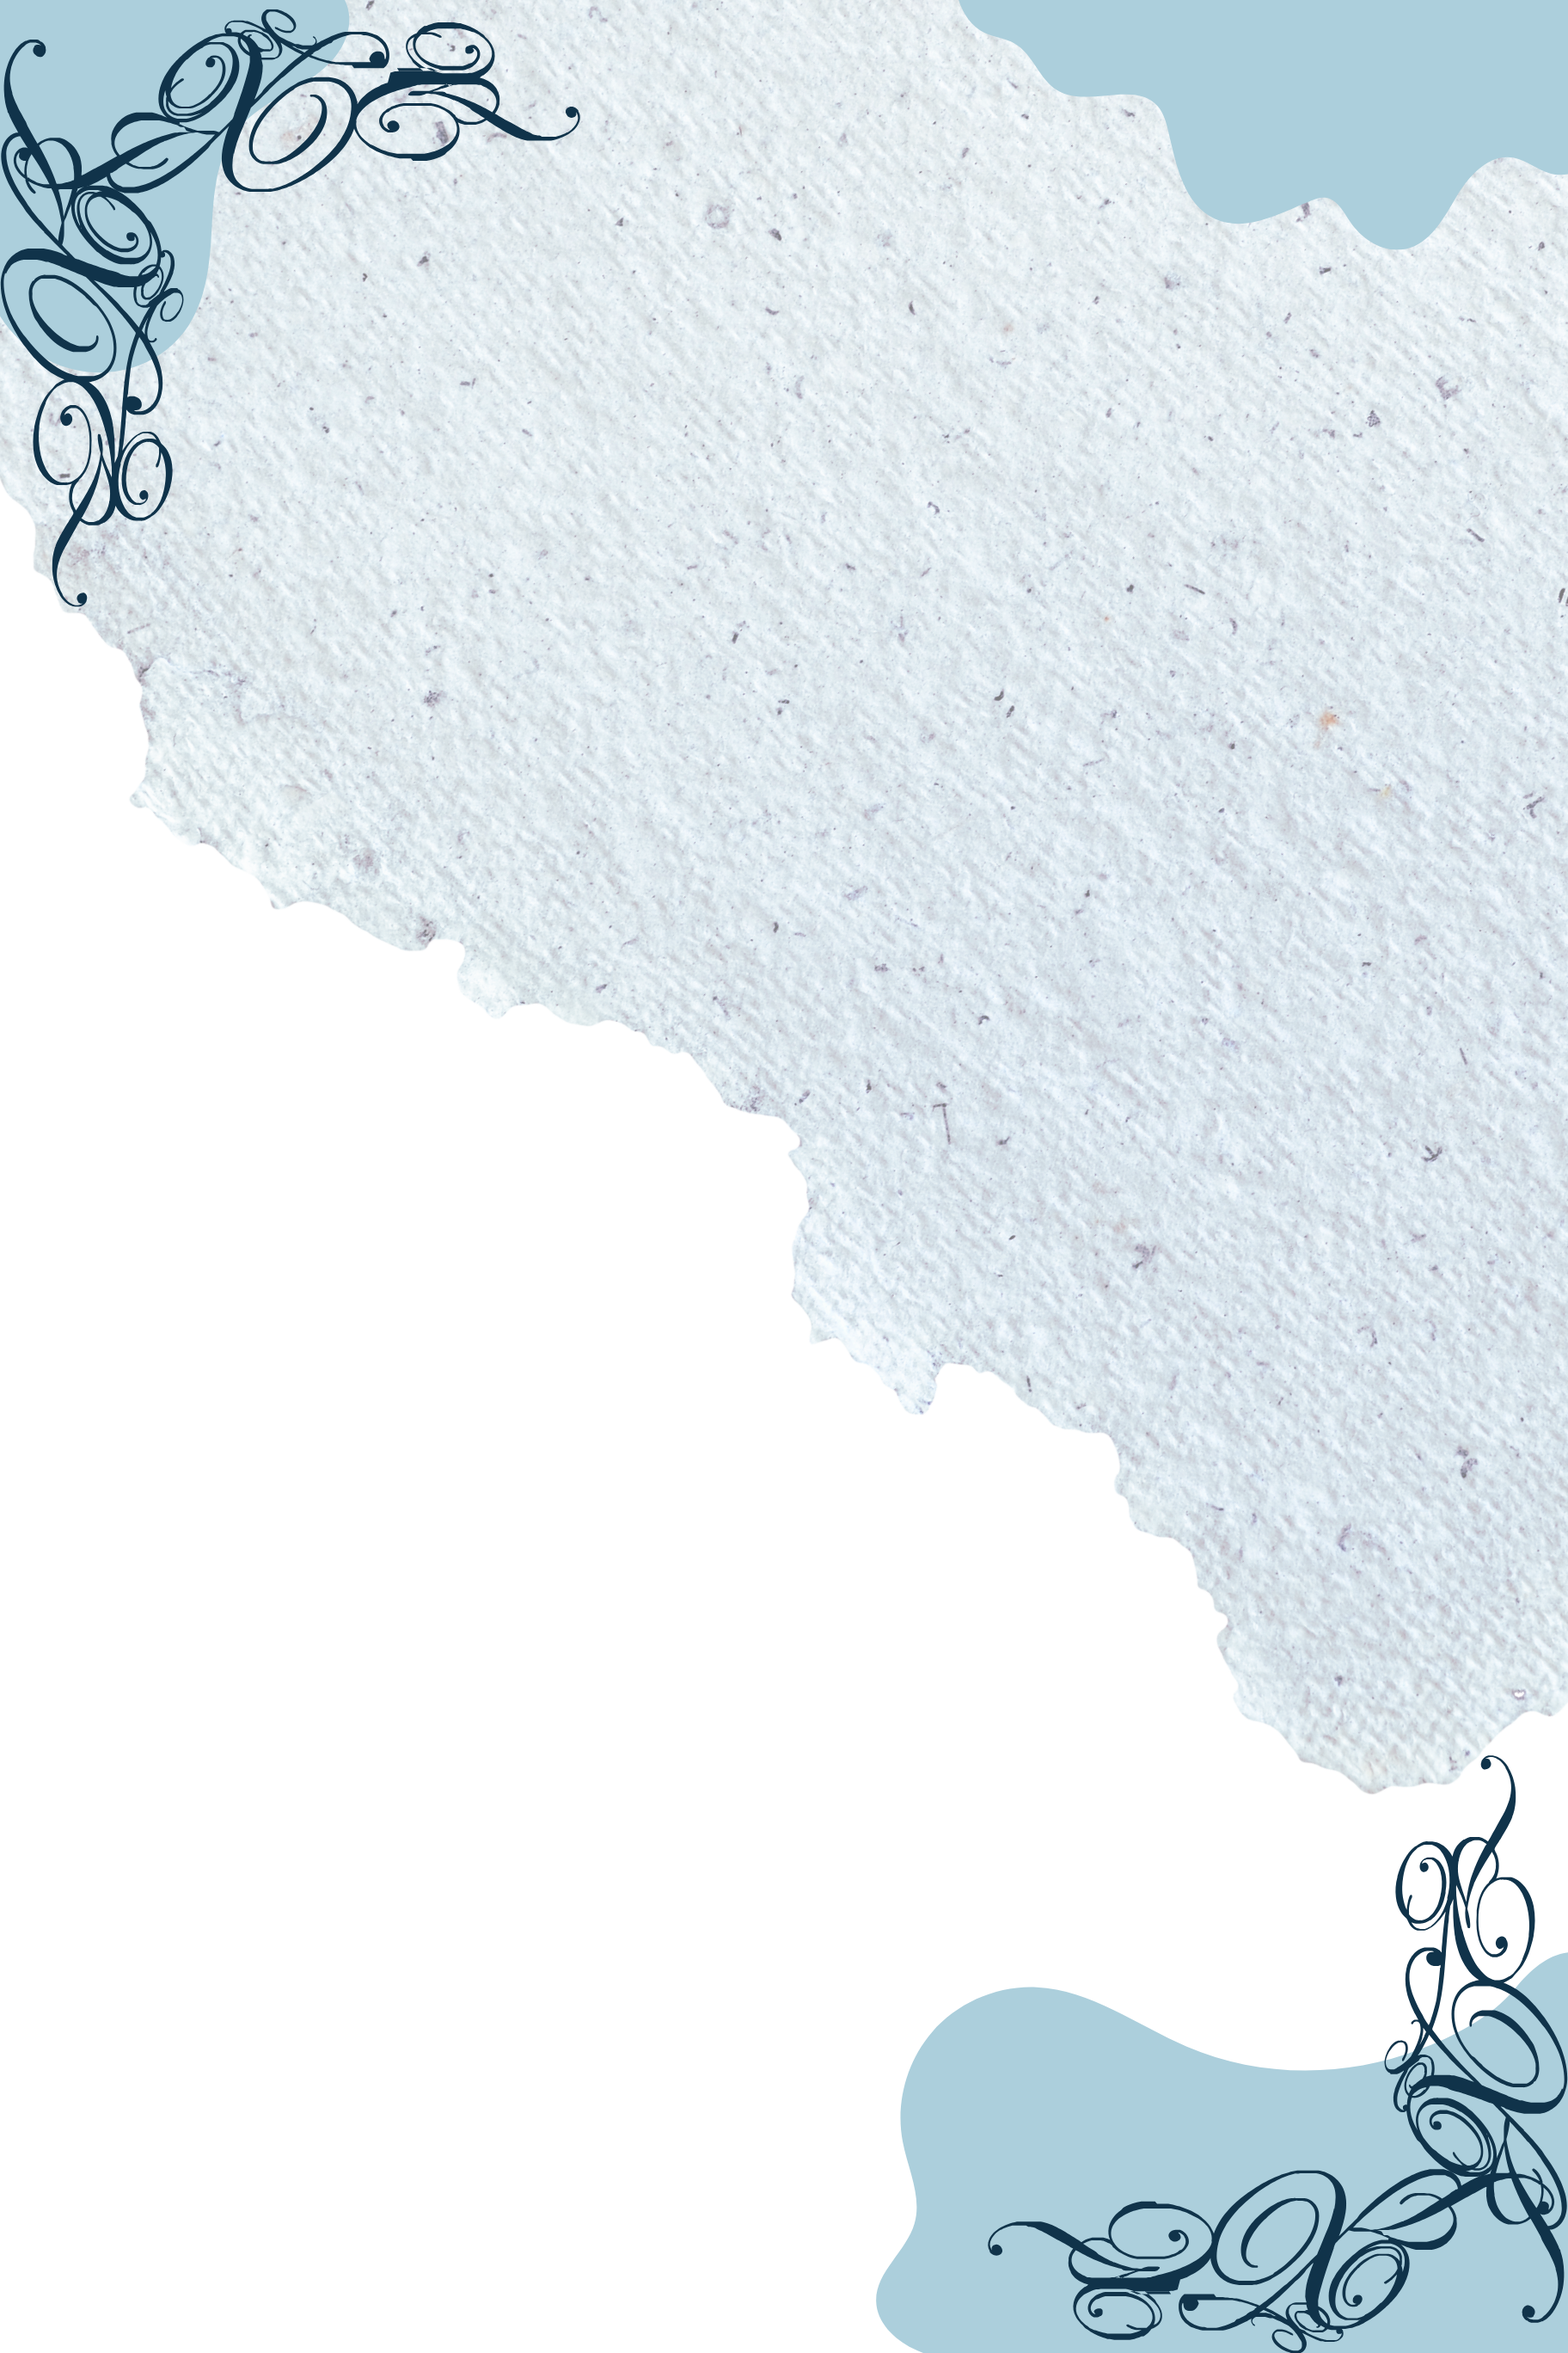
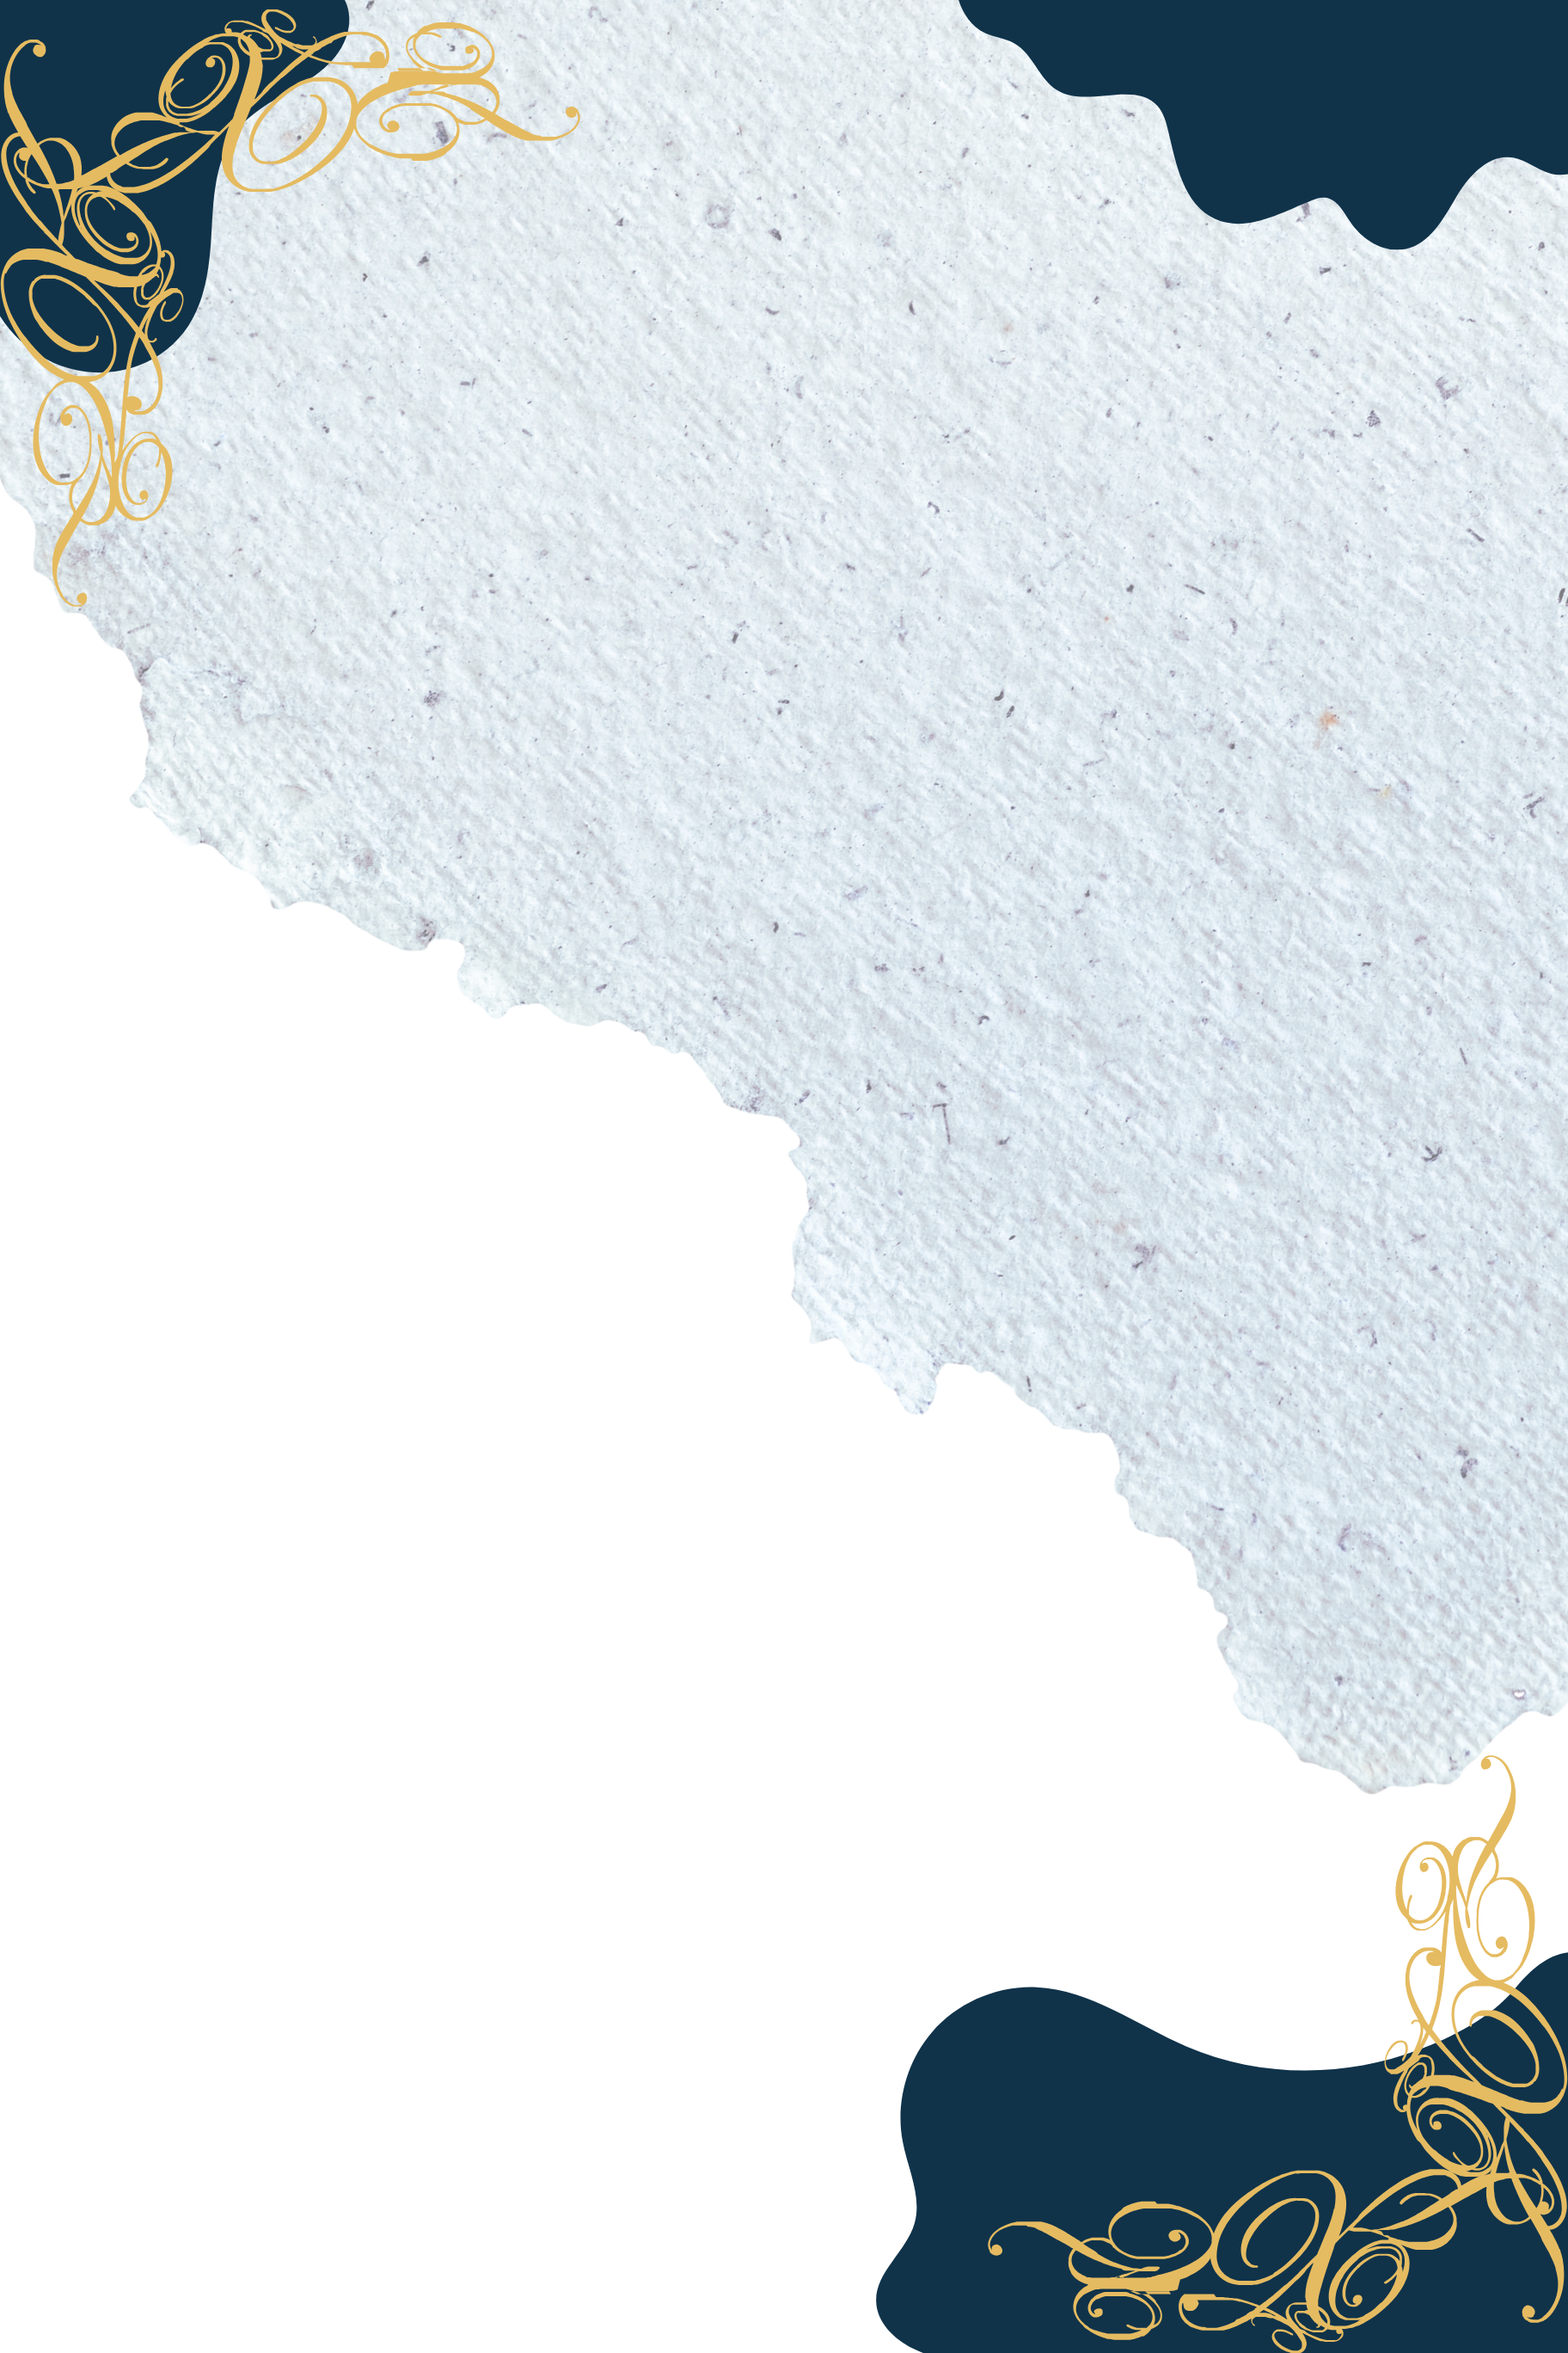
Modificato lo sfondo e alcuni elementi

Changed region(s): [[0.5625, 0.7456, 1.0, 1.0], [0.0, 0.0, 0.3438, 0.2485], [0.5938, 0.0, 1.0, 0.1243]]

diff --git a/client/src/CSS/Activities.css b/client/src/CSS/Activities.css
@@ -1,5 +1,21 @@
 /* Contenitore delle attività */
+.activity .title {
+  position: fixed; /* Fissa il titolo in cima */
+  top: 0; /* Posiziona il titolo all'inizio della pagina */
+  left: 10%; /* Centra orizzontalmente */
+  right: 10%;
+  z-index: 10;
+  font-size: 4.5rem;
+  font-weight: bold;
+  text-align: center;
+  font-family: 'Quintessential', sans-serif;
+  color: #10334a;
+  text-shadow: 3px 3px 4px  #5f8caa;
+  margin-top: 115px;
+}
+
 .activity .activity-container {
+  padding-top: 400px;
   display: flex;
   flex-wrap: wrap; /* Le card andranno a capo se necessario */
   justify-content: center; /* Centra orizzontalmente le card */
@@ -17,7 +33,7 @@
   background: rgba(255, 255, 255, 0.8);
   border-radius: 15px;
   box-shadow: 0 4px 10px #10334a;
-  width: 250px;
+  width: 350px;
   padding: 20px;
   text-align: center;
   cursor: pointer;
@@ -39,7 +55,7 @@
 }
 
 .activity .activity-title {
-  font-size: 2rem;
+  font-size: 1.7rem;
   font-family: 'Quintessential', sans-serif;
   font-weight: bold;
   color: #10334a;

diff --git a/client/src/CSS/StepsPage.css b/client/src/CSS/StepsPage.css
@@ -15,7 +15,7 @@
   display: flex;
   flex-direction: column; /* Dispone i pannelli verticalmente */
   align-items: center; /* Centra orizzontalmente */
-  background-image: url('/img/sfondo_prova.png'); /* Sfondo globale */
+  background-image: url('/img/sfondo_generale.png'); /* Sfondo globale */
   background-size: cover; /* Copri l'intero contenitore */
   background-position: center;
   background-attachment: fixed; /* Sfondo fisso durante lo scroll */
@@ -38,6 +38,7 @@
   text-align: center;
   font-family: 'Quintessential', sans-serif;
   color: #10334a;
+  text-shadow: 3px 3px 4px  #5f8caa;
   padding: 10px 20px; /* Spaziatura interna */
   width: auto;
   margin-top: 100px; /* Aggiungi margine in alto per dare spazio all'inizio della pagina */

diff --git a/client/src/CSS/ChapterZero.css b/client/src/CSS/ChapterZero.css
@@ -6,7 +6,7 @@
   overflow: hidden;
 }
 
-.title {
+.background-component .title {
   left: 50%;
   z-index: 10;
   font-size: 5rem;
@@ -14,10 +14,11 @@
   text-align: center;
   font-family: 'Quintessential', sans-serif;
   color: #10334a;
+  text-shadow: 3px 3px 4px  #5f8caa;
   padding: 10px 20px;
   width: auto;
   margin-top: 150px;
-  margin-bottom: 0px;
+  margin-bottom: 100px;
 }
 
 .lumi {

diff --git a/client/src/CSS/Question.css b/client/src/CSS/Question.css
@@ -92,7 +92,7 @@
     font-size: 2rem;
     font-family: 'Quintessential', sans-serif;
     font-weight: bold;
-    color: #720B5B;
+    color: #10334a;
   }
   
   .question .activity-answer {
@@ -130,7 +130,8 @@
   .question .title {
     font-size: 4rem;
     font-weight: bold;
-    color: #720B5B;
+    color: #10334a;
+    text-shadow: 3px 3px 4px  #5f8caa;
   }
 
   

diff --git a/client/src/CSS/FormCharacterPage.css b/client/src/CSS/FormCharacterPage.css
@@ -34,7 +34,7 @@
     padding: 20px 20px;
     font-size: 20px;
     font-weight: bold;
-    background: linear-gradient(to bottom, #a3147a, #720b5b);
+    background: linear-gradient(to bottom, #156ba5, #10334a);
     border: none;
     border-radius: 20px;
     color: white;
